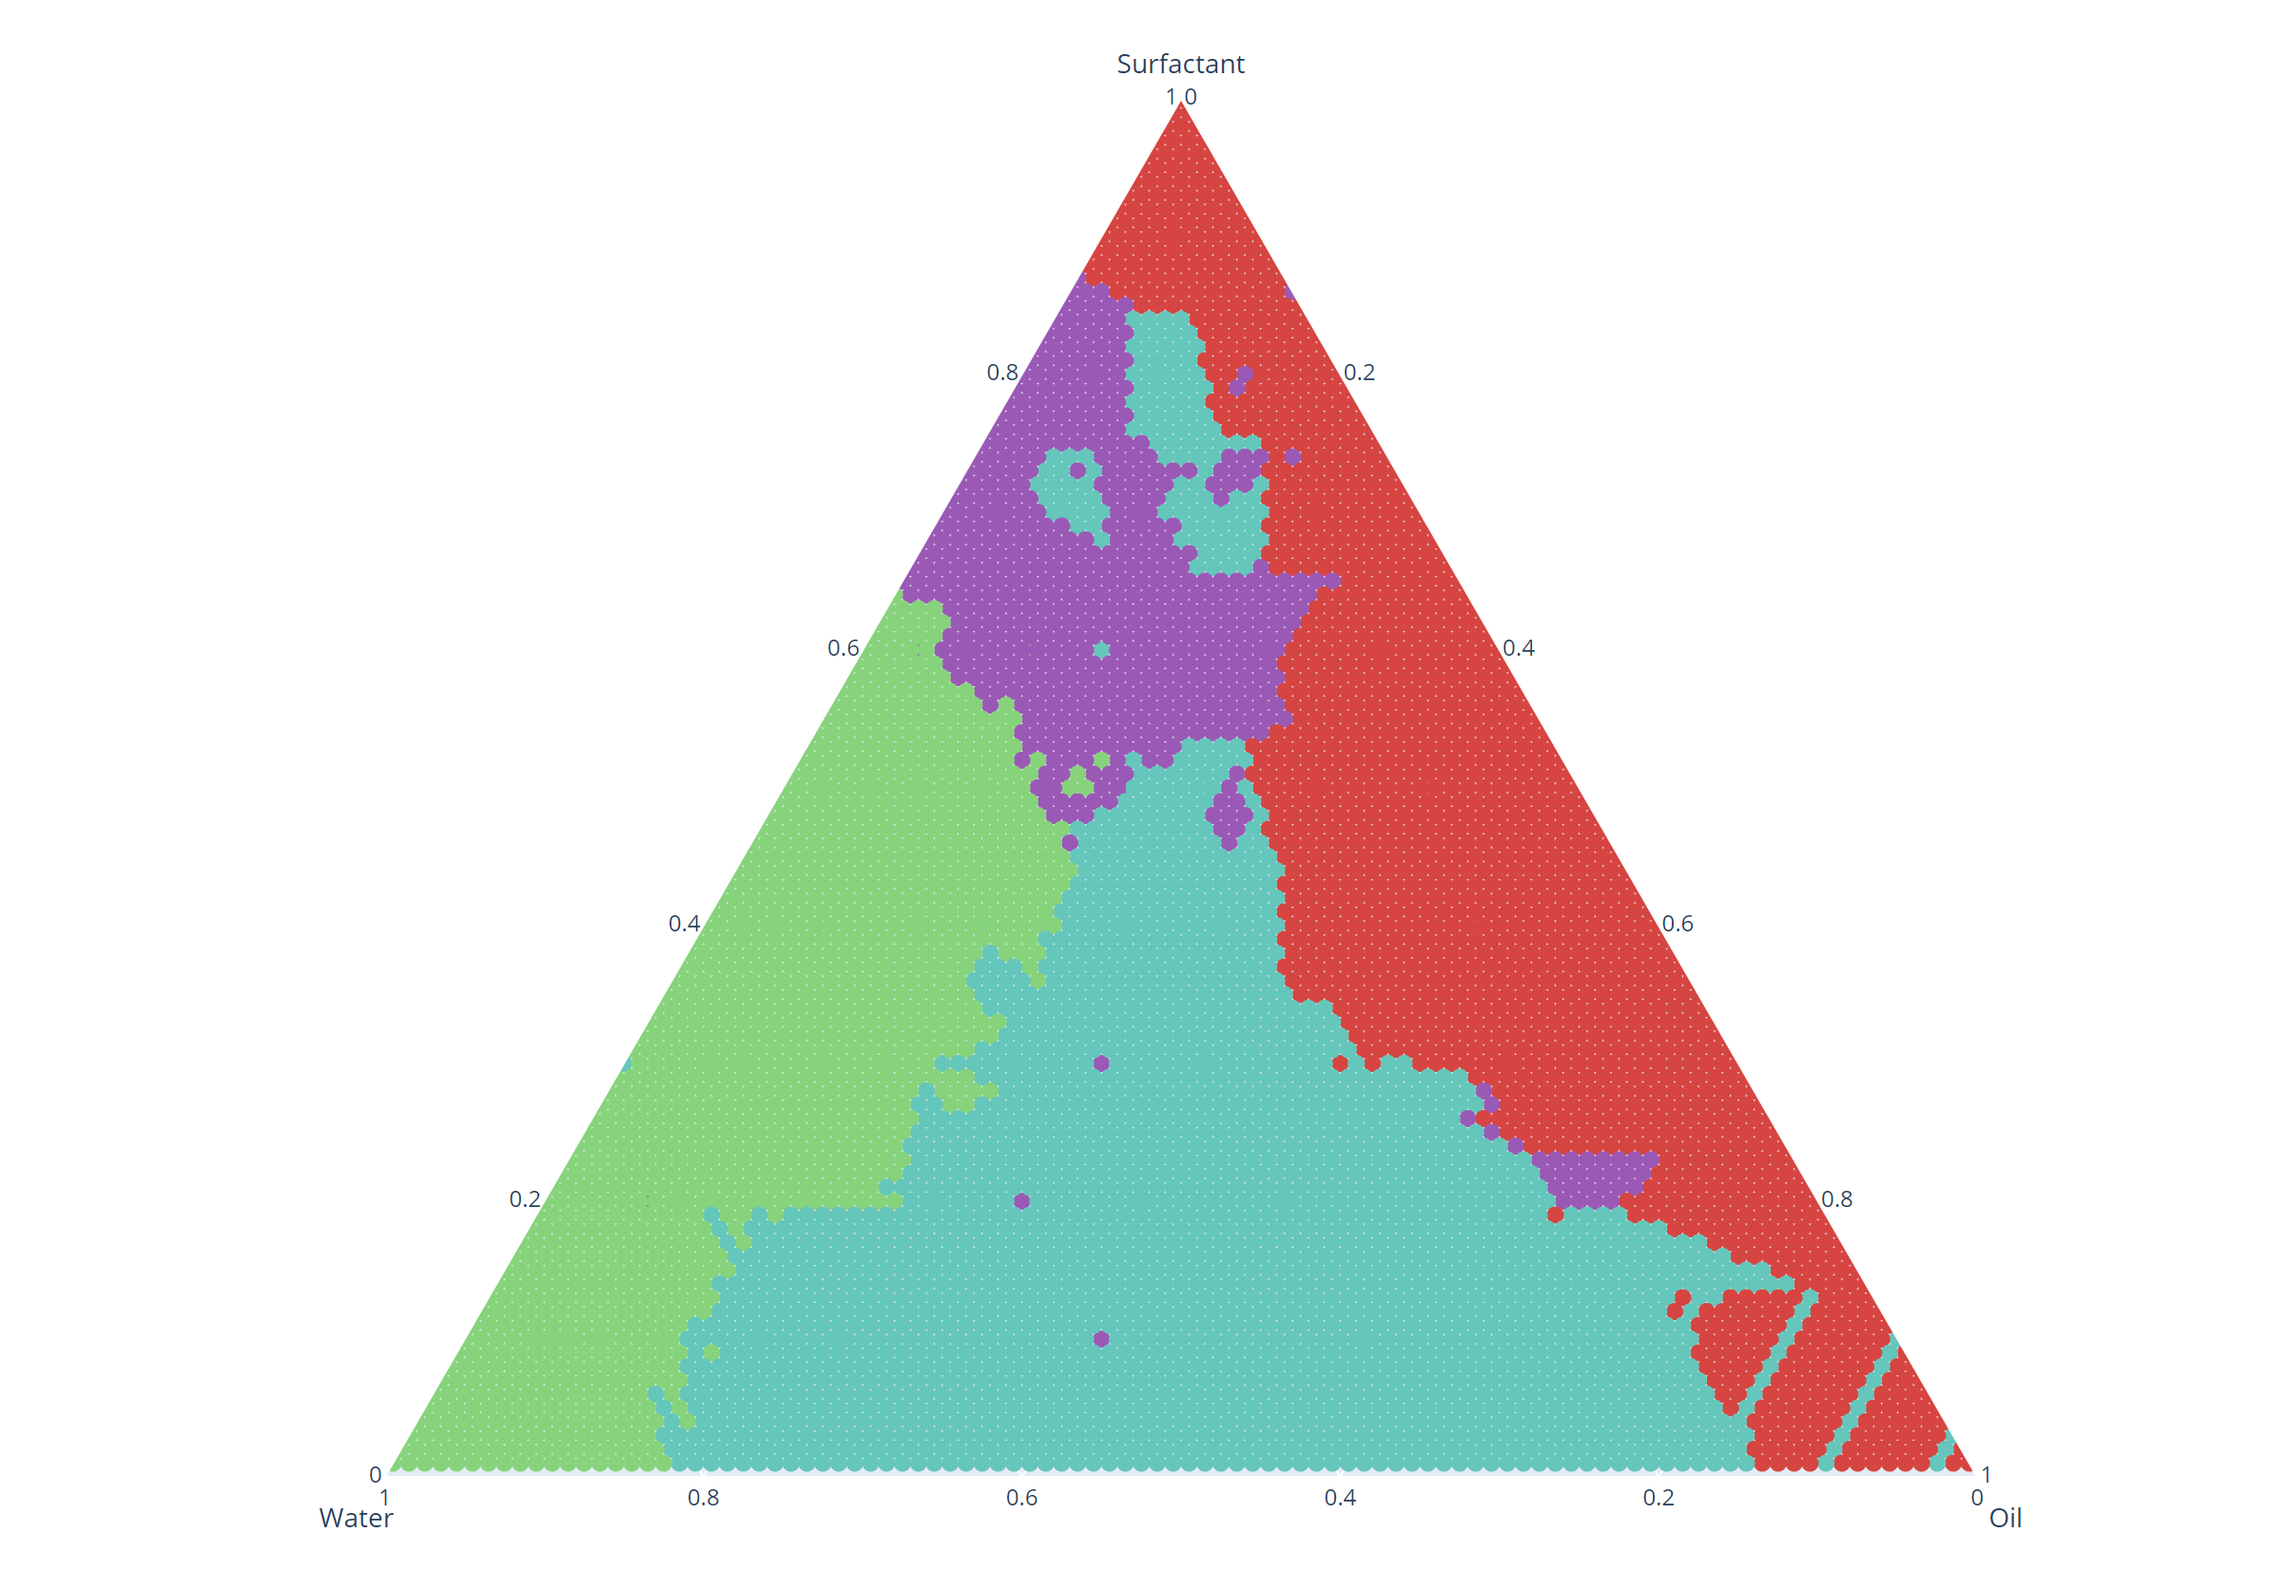
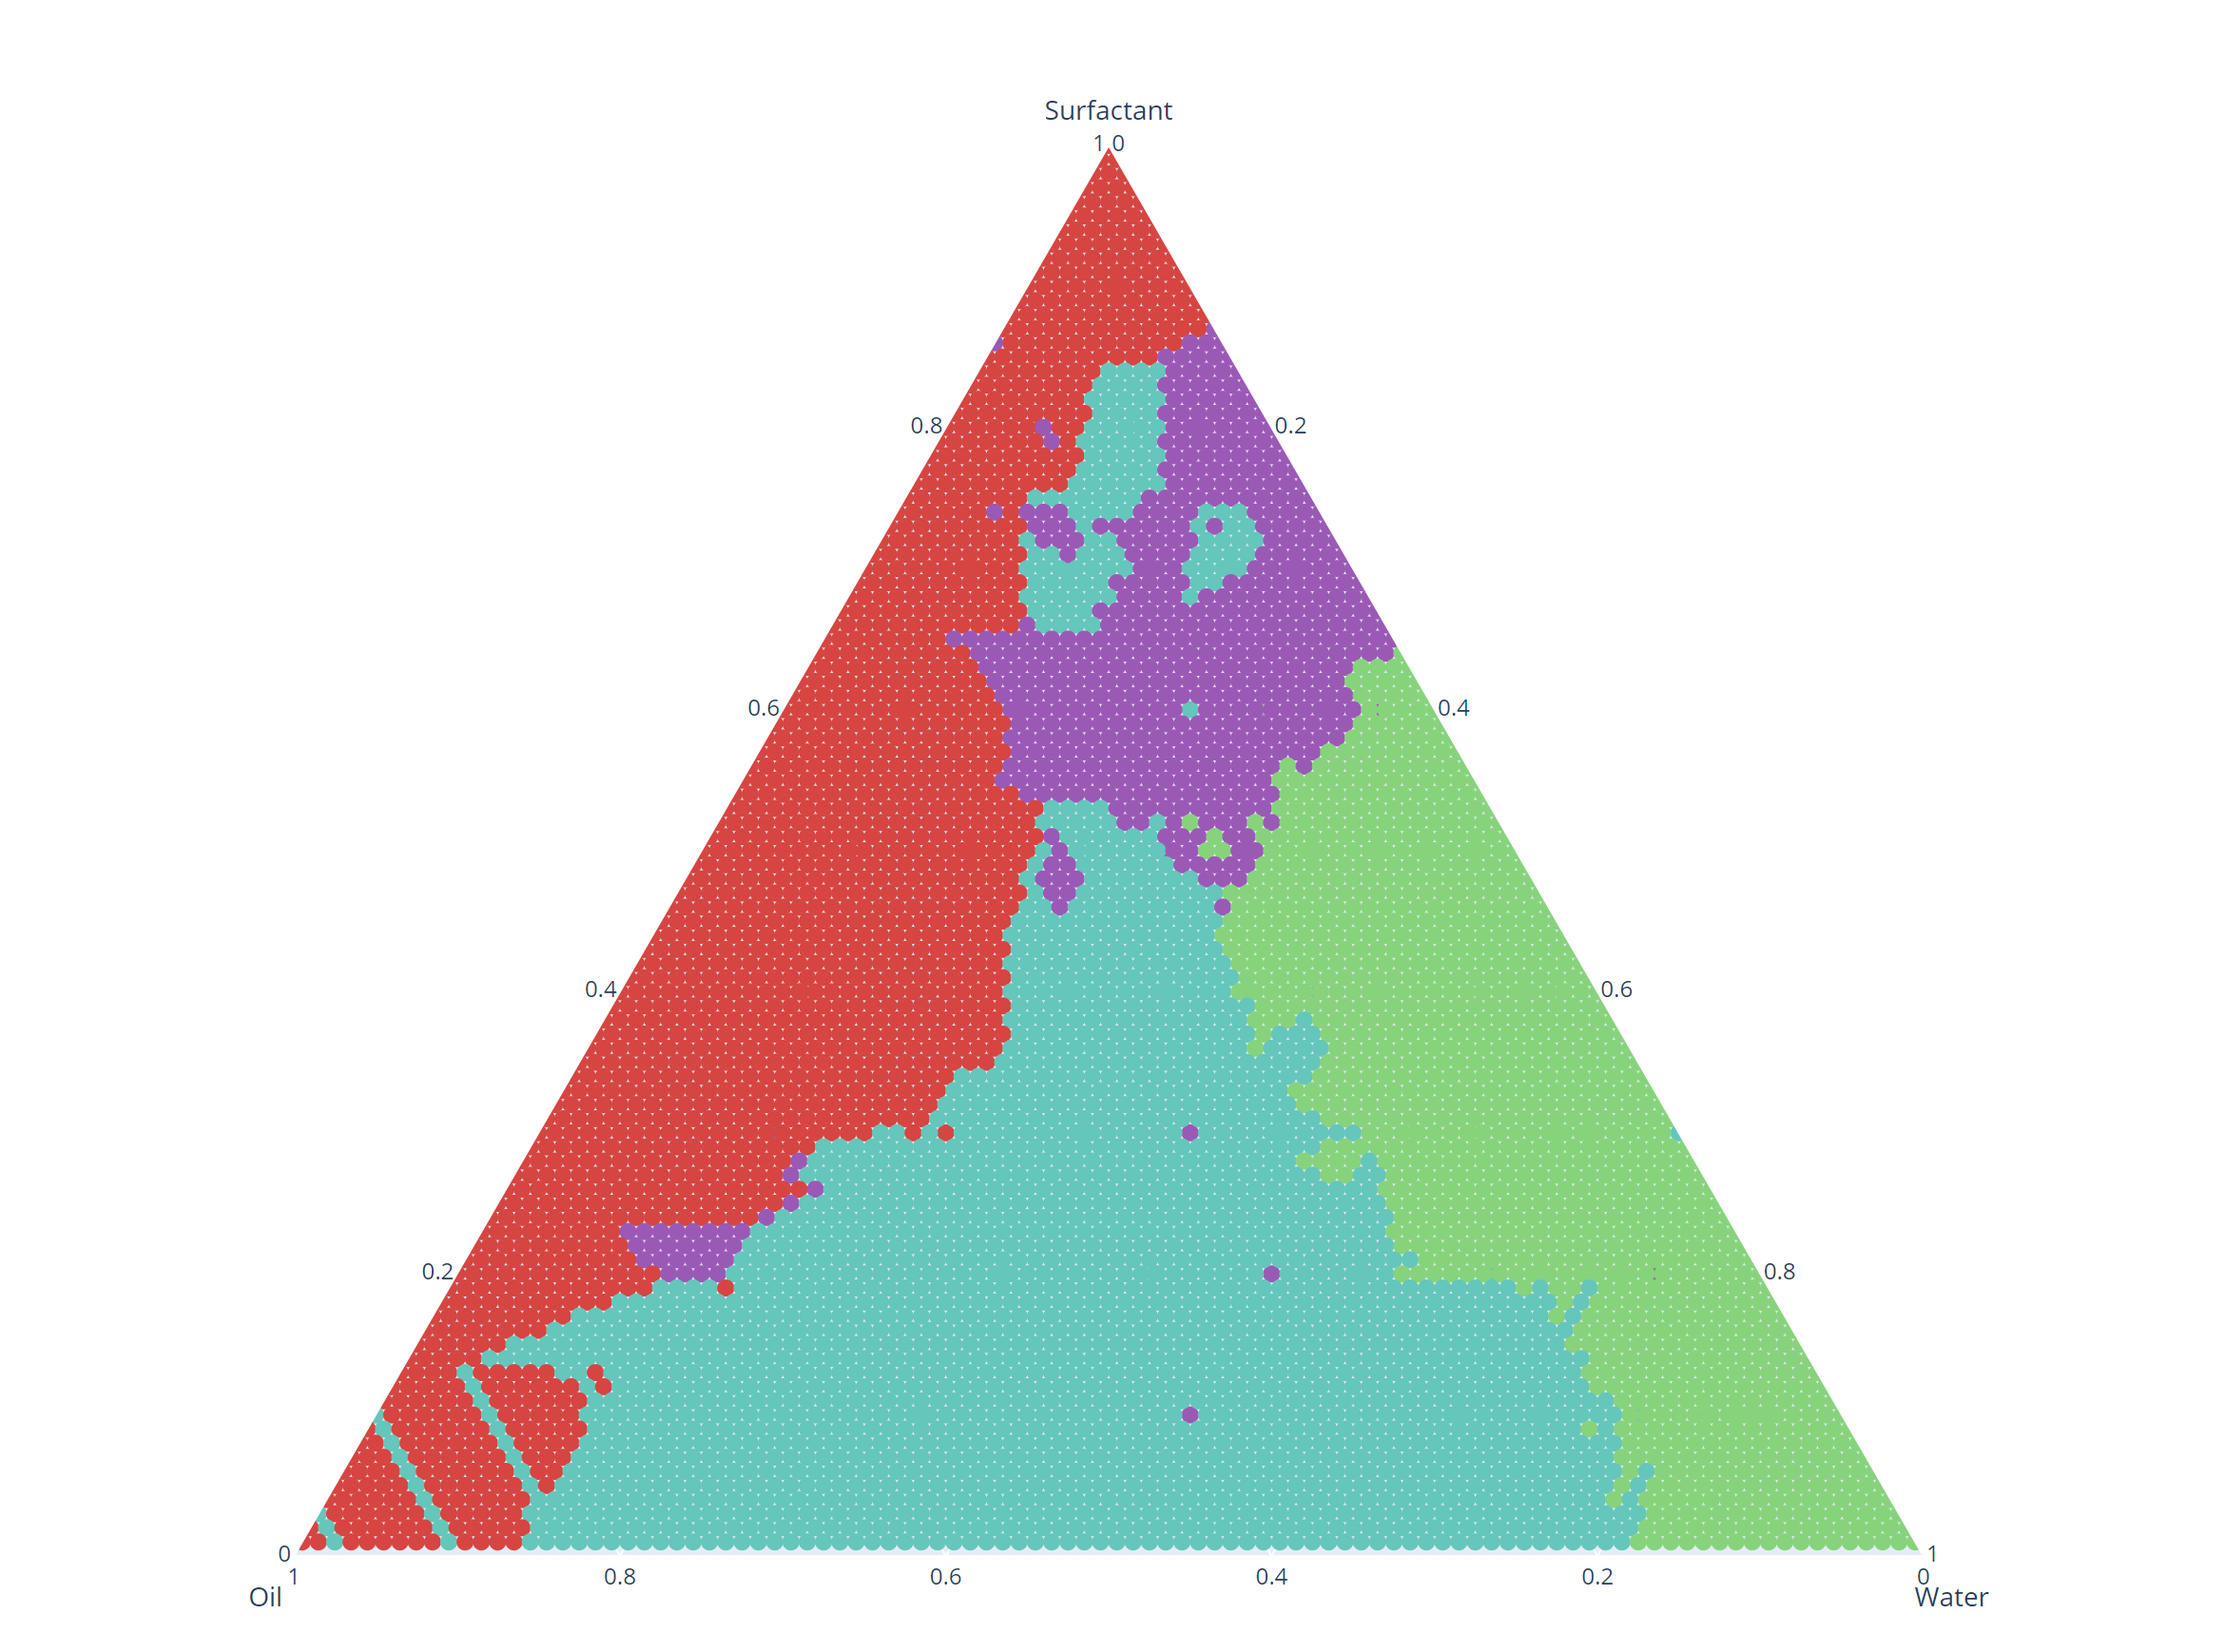
Switches Axis in ternary Diagrams

Changed region(s): [[0.1248, 0.0309, 0.8735, 0.9873], [0.8735, 0.9564, 0.9047, 0.9873]]

diff --git a/DisplayTernaryPhaseDiag.py b/DisplayTernaryPhaseDiag.py
@@ -46,8 +46,8 @@ class Display:
         fig = go.Figure(go.Scatterternary({
             'mode': 'markers',
             'a': list(map(lambda x : x[2], data_in)),
-            'b': list(map(lambda x : x[0], data_in)),
-            'c': list(map(lambda x : x[1], data_in)),
+            'b': list(map(lambda x : x[1], data_in)),
+            'c': list(map(lambda x : x[0], data_in)),
             'text': all_phase_list,
             'marker': {
                 'symbol': 0,
@@ -62,8 +62,8 @@ class Display:
                 {
                     'sum': 1,
                     'aaxis': {'title': 'Surfactant'},
-                    'baxis': {'title': 'Water'},
-                    'caxis': {'title': 'Oil'}
+                    'baxis': {'title': 'Oil'},
+                    'caxis': {'title': 'Water'}
                 },
         })
 

diff --git a/main.py b/main.py
@@ -21,5 +21,5 @@ print(optimalK)
 print("Min Error: " + str(min(resample.errors)))
 resample.display_ERR_over_K()
 
-display.DisplayTernaryPhaseScatter(data_read[1], data_read[0])
+#display.DisplayTernaryPhaseScatter(data_read[1], data_read[0])
 display.DisplayTernaryPhaseScatter(KNN.KNN(9, data_read[1], 0.01), data_read[0])
